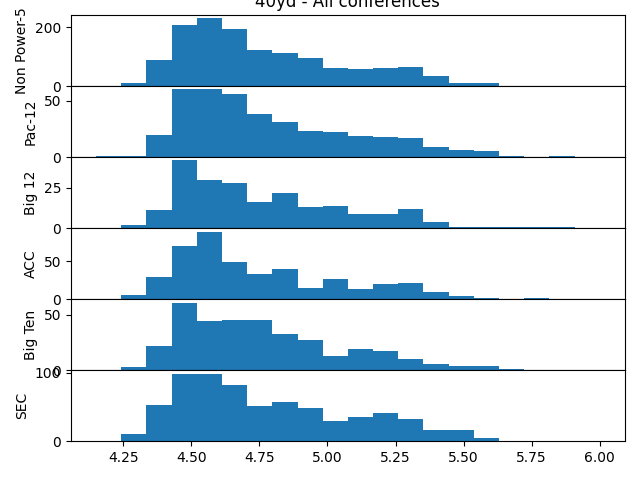
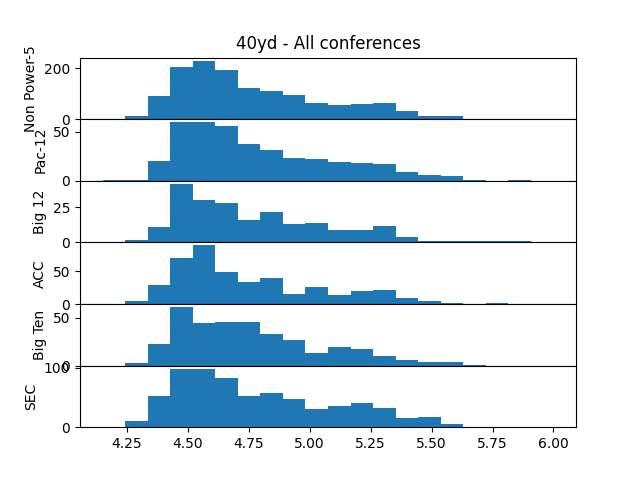
Fixed layout issue on plt

diff --git a/src/analysis.py b/src/analysis.py
@@ -92,7 +92,7 @@ def create_histogram(data=df, xlabel='40yd', savefig=True):
                     bins=20, range=(4.15, 6.0))
         axs[i].set_ylabel(f"{conf}")
 
-    plt.tight_layout()
+    # plt.tight_layout()
     axs[0].set_title(f"{xlabel} - All conferences")
         
         # Saving figure if desired
